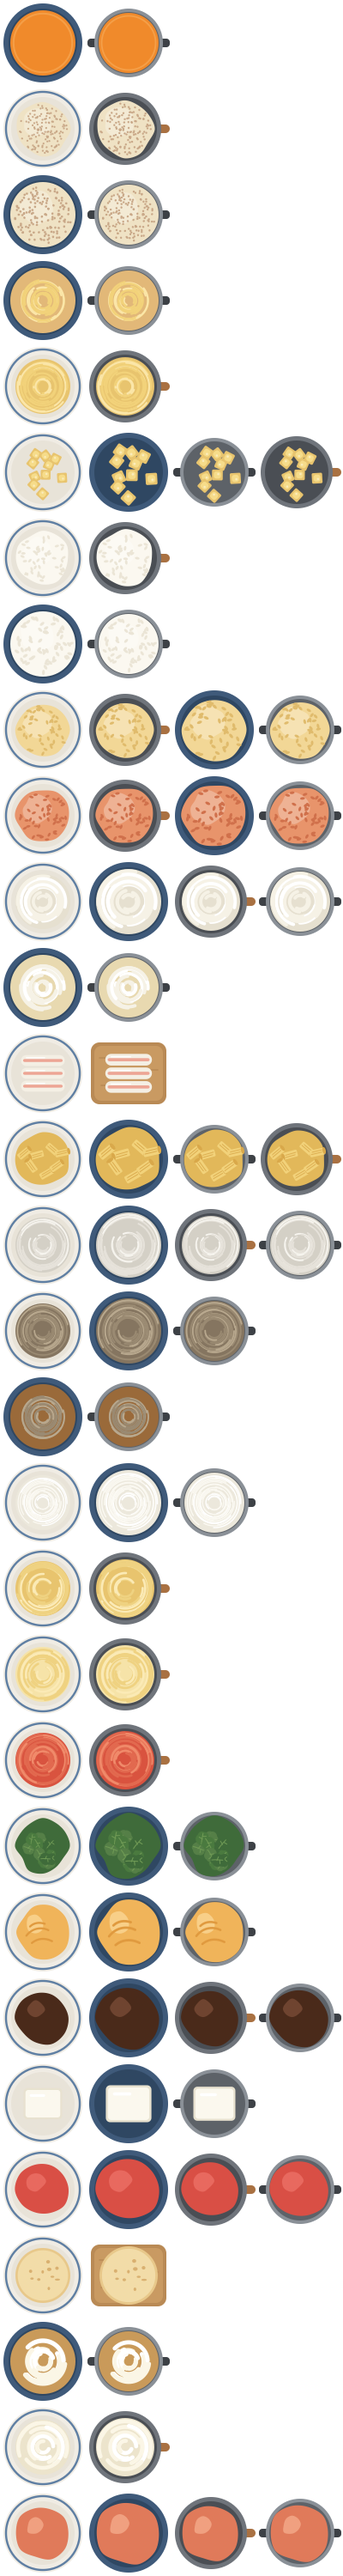
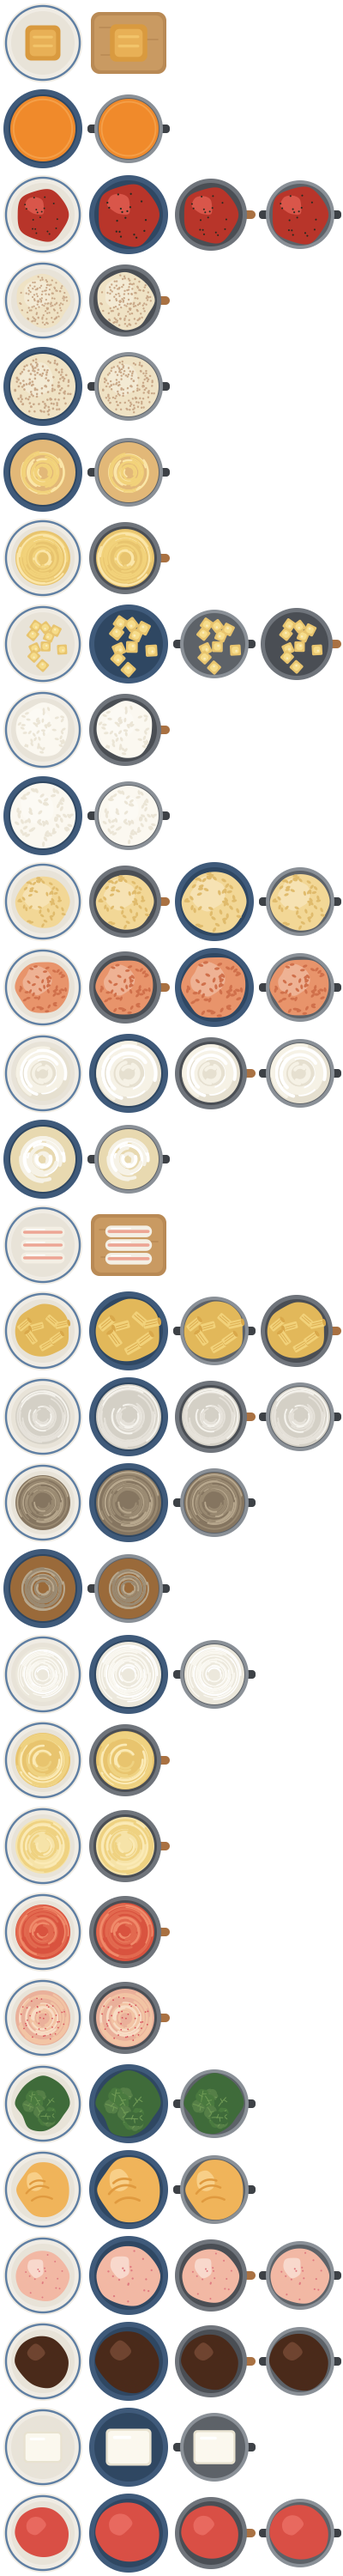
Add roe and puttanesca pasta sauces

diff --git a/CulinaryIntelligence/Sources/CulinaryIntelligence/Models/IconCatalog.swift b/CulinaryIntelligence/Sources/CulinaryIntelligence/Models/IconCatalog.swift
@@ -347,6 +347,7 @@ public nonisolated enum IngredientCategory: String, CaseIterable, Identifiable, 
                 "marinara-sauce",
                 "olive-oil",
                 "pesto",
+                "puttanesca-sauce",
                 "red-wine",
                 "vodka-sauce",
                 "white-wine",
@@ -367,6 +368,7 @@ public nonisolated enum IngredientCategory: String, CaseIterable, Identifiable, 
                 "xo-sauce",
                 // Japanese
                 "dashi",
+                "mentaiko-pasta-sauce",
                 "mentsuyu",
                 "mirin",
                 "miso",
@@ -377,6 +379,7 @@ public nonisolated enum IngredientCategory: String, CaseIterable, Identifiable, 
                 "sesame-dressing",
                 "shiro-dashi",
                 "soy-sauce",
+                "tarako-pasta-sauce",
                 "teriyaki-sauce",
                 "tonkatsu-sauce",
                 "yakiniku-sauce",
@@ -884,6 +887,8 @@ public nonisolated enum IconCatalog {
         "medjool": "dates",
         "medjool dates": "dates",
         "mekajiki": "swordfish",
+        "mentaiko sauce": "mentaiko-pasta-sauce",
+        "mentaiko spaghetti sauce": "mentaiko-pasta-sauce",
         "mikan": "mandarin",
         "mizuame": "golden-syrup",
         "mochi rice": "glutinous-rice",
@@ -943,6 +948,7 @@ public nonisolated enum IconCatalog {
         "prawn": "shrimp",
         "preserved mustard stem": "zha-cai",
         "purple onion": "red-onion",
+        "puttanesca": "puttanesca-sauce",
         "ragu": "bolognese-sauce",
         "ragù": "bolognese-sauce",
         "rainbow chard": "swiss-chard",
@@ -1071,6 +1077,8 @@ public nonisolated enum IconCatalog {
         "tamarind pulp": "tamarind",
         "tangerine": "mandarin",
         "tarako": "mentaiko",
+        "tarako sauce": "tarako-pasta-sauce",
+        "tarako spaghetti sauce": "tarako-pasta-sauce",
         "taro root": "taro",
         "thai sweet chili sauce": "sweet-chili-sauce",
         "thin wheat noodles": "somen",

diff --git a/CulinaryIntelligence/Sources/CulinaryIntelligence/Models/DishPlanner.swift b/CulinaryIntelligence/Sources/CulinaryIntelligence/Models/DishPlanner.swift
@@ -242,8 +242,9 @@ private nonisolated struct DishPlanner {
 
     /// Sauces that fill a region of their own, most telling first.
     private static let sauces = [
-        "curry-roux", "coconut-milk", "lentils", "bolognese-sauce", "arrabbiata-sauce", "vodka-sauce", "marinara-sauce",
-        "passata", "canned-tomatoes", "carbonara-sauce", "alfredo-sauce", "pesto", "tianmianjiang", "beans",
+        "curry-roux", "coconut-milk", "lentils", "bolognese-sauce", "arrabbiata-sauce", "puttanesca-sauce", "vodka-sauce",
+        "marinara-sauce", "passata", "canned-tomatoes", "carbonara-sauce", "alfredo-sauce", "mentaiko-pasta-sauce",
+        "tarako-pasta-sauce", "pesto", "tianmianjiang", "beans",
     ]
     private static let soups = ["miso", "doenjang", "pumpkin", "butternut-squash", "dashi"]
 
@@ -283,9 +284,14 @@ private nonisolated struct DishPlanner {
             }
             return kind == "bowl" || kind == "pot" ? "bowl" : "mound"
         case "spaghetti", "fettuccine":
+            let roe = ["mentaiko-pasta-sauce", "tarako-pasta-sauce", "mentaiko"].first { assets.contains($0) }
+            if grain == "spaghetti", let roe {
+                consumed.insert(roe)
+                return "roe"
+            }
             let tomato = [
-                "bolognese-sauce", "arrabbiata-sauce", "vodka-sauce", "marinara-sauce", "tomato", "passata", "canned-tomatoes",
-                "tomato-paste", "ketchup",
+                "bolognese-sauce", "arrabbiata-sauce", "puttanesca-sauce", "vodka-sauce", "marinara-sauce", "tomato", "passata",
+                "canned-tomatoes", "tomato-paste", "ketchup",
             ].first { assets.contains($0) }
             if grain == "spaghetti", let tomato {
                 consumed.insert(tomato)

diff --git a/Assets/DishIcons/catalog.py b/Assets/DishIcons/catalog.py
@@ -306,7 +306,7 @@ V["rice-paper"] = {"rolls": fl(lambda r: rolls(r, "#f4efe4", "#ffffff", "#e8735f
 V["rigatoni"] = {"pasta": fl(lambda r: tiled(r, tube("#f2d27a", "#d9a84a", True), 20, 10, base="#e2b85a"), PLATES + BOWLS + ["pan"])}
 V["soba"] = {"swirl": fl(lambda r: noodles(r, "#9a8a72", "#b8a88e", "#857560", 1.6, 34), PLATES + BOWLS), "broth": fl(lambda r: noodles(r, "#9a8a72", "#b8a88e", "#857560", 1.6, 34, broth="#9a6a3a"), BOWLS)}
 V["somen"] = {"swirl": fl(lambda r: noodles(r, "#fbf9f2", "#ffffff", "#ece8dc", 1.2, 40), PLATES + BOWLS)}
-V["spaghetti"] = {"plain": fl(lambda r: noodles(r, "#efd281", "#fbeab5", "#e8c46e"), PLATES + ["pan"]), "creamy": fl(lambda r: noodles(r, "#efd281", "#fbeab5", "#f6e3a8"), PLATES + ["pan"]), "tomato": fl(lambda r: noodles(r, "#e2694f", "#f08a6a", "#d9533f"), PLATES + ["pan"])}
+V["spaghetti"] = {"plain": fl(lambda r: noodles(r, "#efd281", "#fbeab5", "#e8c46e"), PLATES + ["pan"]), "creamy": fl(lambda r: noodles(r, "#efd281", "#fbeab5", "#f6e3a8"), PLATES + ["pan"]), "tomato": fl(lambda r: noodles(r, "#e2694f", "#f08a6a", "#d9533f"), PLATES + ["pan"]), "roe": fl(lambda r: noodles(r, "#f2c4a4", "#f8dcc4", "#eab09a", dots="#d9505a"), PLATES + ["pan"])}
 V["tortilla"] = {"flat": fl(lambda r: flatbread(r, "#f2dca8", "#d9b070", "#e8c88a"), FLAT), "chips": p(triangle("#f2c85a", "#f8dc8a"), 13, 6)}
 V["udon"] = {"broth": fl(lambda r: noodles(r, "#fbf6e6", "#ffffff", "#ece4cc", 4.2, 16, broth="#c99a5a"), BOWLS), "swirl": fl(lambda r: noodles(r, "#fbf6e6", "#ffffff", "#ece4cc", 4.2, 16), PLATES + ["pan"])}
 V["wonton-wrappers"] = {"wontons": p(dumpling("#f6f0e0", "#e2d8c0"), 15, 4)}
@@ -350,6 +350,7 @@ V["bolognese-sauce"] = {"sauce": fl(lambda r: smooth(r, "#9a3f28", "#b85a3a", sp
 V["carbonara-sauce"] = {"sauce": fl(lambda r: smooth(r, "#f2d888", "#fbeab8", specks="#3a3530"), SAUCE)}
 V["marinara-sauce"] = {"sauce": fl(lambda r: smooth(r, "#cc3e2e", "#e8604a", specks="#4f7a3a"), SAUCE)}
 V["vodka-sauce"] = {"sauce": fl(lambda r: smooth(r, "#e07a5a", "#f0a080"), SAUCE)}
+V["puttanesca-sauce"] = {"sauce": fl(lambda r: smooth(r, "#b8352a", "#d9564a", specks="#2a2a1f"), SAUCE)}
 V["pesto"] = {"dollop": center(dollop("#5f8f3a", "#8ab55a"), 22), "sauce": fl(lambda r: smooth(r, "#6a9a3f", "#8ab55a", specks="#3f6b2a"), PLATES + ["pan"])}
 V["chili-oil"] = {"drizzle": center(drizzle("#c9301f", 2.4) + '<circle cx="5" cy="9" r="0.8" fill="#6a1f15"/><circle cx="11" cy="7" r="0.8" fill="#6a1f15"/>', 24, 2)}
 V["douchi"] = {"beans": garnish(cluster("#2a2422", "#5a4a42", 1.6, 5), 7, 4)}
@@ -361,6 +362,8 @@ V["dashi"] = {"broth": fl(lambda r: soup(r, "#e8d6a0", "#f6e8c4"), BOWLS)}
 V["miso"] = {"soup": fl(lambda r: soup(r, "#d9b06a", "#e8c88a", "#c4954a"), BOWLS), "glaze": center(dollop("#c9903a", "#e2b060"), 22)}
 V["okonomiyaki-sauce"] = {"drizzle": center(zigzag("#4a2a1a"), 26, 1)}
 V["sesame-dressing"] = {"drizzle": center(drizzle("#e8d6a8", 2.2), 24, 2)}
+V["mentaiko-pasta-sauce"] = {"sauce": fl(lambda r: smooth(r, "#ec9a8c", "#f6c4b8", specks="#c9304a"), SAUCE)}
+V["tarako-pasta-sauce"] = {"sauce": fl(lambda r: smooth(r, "#f2b8a4", "#f8d8cc", specks="#e07a80"), SAUCE)}
 V["teriyaki-sauce"] = {"glaze": center(drizzle("#6a3a1a", 2.6), 24, 2)}
 V["tonkatsu-sauce"] = {"drizzle": center(zigzag("#3a1f15"), 24, 1)}
 V["yakisoba-sauce"] = {"noodles": fl(lambda r: noodles(r, "#b8743a", "#d4955a", "#9a5a2a", 2.2, 28), PLATES + ["pan"])}

diff --git a/Assets/DishIcons/draw.py b/Assets/DishIcons/draw.py
@@ -500,7 +500,7 @@ def soup(rng, base, sheen, dots=None):
     return s
 
 
-def noodles(rng, m, l, shade, width=2.4, count=26, broth=None, full=False):
+def noodles(rng, m, l, shade, width=2.4, count=26, broth=None, full=False, dots=None):
     s = ""
     if broth:
         s += f'<circle cx="{C}" cy="{C}" r="{R}" fill="{broth}"/>'
@@ -517,6 +517,9 @@ def noodles(rng, m, l, shade, width=2.4, count=26, broth=None, full=False):
         large = 1 if sweep > math.pi else 0
         c = m if i % 3 else l
         s += f'<path d="M{f(x0)} {f(y0)}A{f(rr)} {f(rr)} 0 {large} 1 {f(x1)} {f(y1)}" stroke="{c}" stroke-width="{width}" fill="none" stroke-linecap="round"/>'
+    if dots:
+        for x, y in scatter_in_circle(rng, C, C, r_nest * 0.85, 40):
+            s += f'<circle cx="{f(x)}" cy="{f(y)}" r="0.8" fill="{dots}"/>'
     return s
 
 
